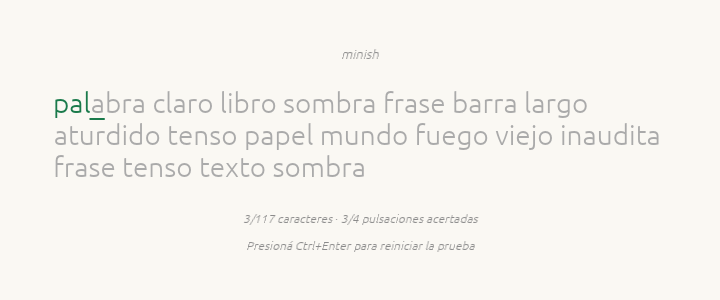
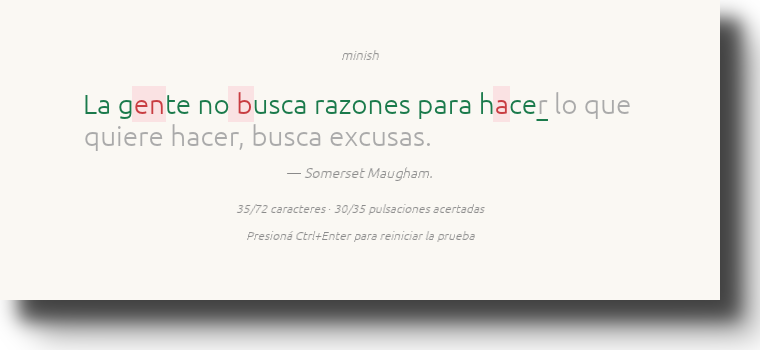
docs: add README and refresh the screenshot
The README covers how to run the app, the controls, how each metric is
computed, the quote file format with its 130-character budget, and the
compositor rule niri needs to pin the window to a corner.

The screenshot was retaken with the author line visible, which the
previous one predates.

diff --git a/README.md b/README.md
@@ -1,0 +1,108 @@
+# minish
+
+[![Built with Gentle-AI](https://raw.githubusercontent.com/Gentleman-Programming/gentle-ai/main/docs/assets/brand/built-with-gentle-ai.png)](https://github.com/Gentleman-Programming/gentle-ai)
+
+<p align="center">
+  <img src="assets/minish.png" width="140" alt="minish">
+</p>
+
+Entrenador de mecanografía minimalista: una frase real por vez, nada más.
+
+Practicás con citas reales en español —con sus acentos, comas, mayúsculas y
+signos de apertura— en una ventana chica que se queda arriba de todo. Al
+terminar te muestra palabras por minuto, precisión y ritmo.
+
+![minish corriendo en niri](doc/captura.png)
+
+## Cómo correrlo
+
+Necesitás Rust 1.85 o superior (el proyecto usa la edición 2024). La única
+dependencia es `eframe`, que baja `cargo` solo.
+
+```sh
+cargo run --release
+```
+
+El primer build compila `eframe` y compañía, así que tarda unos minutos. Los
+siguientes son instantáneos.
+
+## Controles
+
+| Tecla | Qué hace |
+| --- | --- |
+| Cualquier tecla | Escribe el carácter siguiente |
+| `Backspace` | Borra el último carácter |
+| `Ctrl+Enter` | Reinicia con una frase nueva |
+
+El cronómetro arranca con la **primera tecla**, no al abrir la ventana: pensar
+la frase no cuenta.
+
+## Qué mide
+
+- **WPM** — caracteres correctos dividido 5, por minuto. La convención de "una
+  palabra son 5 caracteres" es la que usan casi todos los tests de tipeo.
+- **Precisión** — pulsaciones acertadas sobre el total. Un error que corregís
+  con `Backspace` **sigue contando**: es lo que hace un test de tipeo real.
+- **Ritmo** — milisegundos promedio por pulsación.
+
+La sesión termina al llegar al último carácter de la frase, aciertes o no. Por
+eso la última letra no se puede corregir, igual que en monkeytype.
+
+## Las frases
+
+Están en `resources/frases.txt`, una por línea, con el autor separado por un
+**tabulador**:
+
+```text
+Si crees que C++ es difícil, intenta aprender inglés.<TAB>Bjarne Stroustrup
+```
+
+El archivo se embebe en el binario con `include_str!`, así que la app no depende
+del directorio desde donde la ejecutes — pero **sin el archivo no compila**. Si
+lo editás, volvé a compilar.
+
+Dos detalles del formato:
+
+- El autor es **opcional**: una línea sin tabulador es una frase sin autor (el
+  archivo tiene un par así).
+- El autor es **informativo**: se muestra en gris debajo de la frase y no se
+  tipea. La práctica es solo el texto.
+
+Entran las frases de hasta 130 caracteres. Con la ventana de 720×300 y la fuente
+de 28 px entran tres líneas, y ese presupuesto es el que fija el límite en
+`phrases::MAX_CHARS`; las más largas se descartan al cargar (hoy son 63 de 630).
+Si agregás una frase que no entra en la ventana, el test de layout te lo dice.
+
+## Ventana flotante
+
+La ventana es de tamaño fijo (720×300), queda siempre arriba y pide la esquina
+superior derecha. En niri se abre flotante sola; fijarle la posición exacta
+requiere una regla del compositor, porque Wayland no deja que un cliente se
+ubique a sí mismo. Está explicado en [`doc/niri.md`](doc/niri.md).
+
+## Estructura
+
+| Módulo | Responsabilidad |
+| --- | --- |
+| `src/main.rs` | Arranque y opciones de la ventana |
+| `src/app.rs` | Capa de egui: dibuja y traduce eventos a pulsaciones |
+| `src/session.rs` | Qué se tipeó y en qué estado está la prueba |
+| `src/stats.rs` | Fórmulas de WPM, precisión y ritmo (puro, sin egui) |
+| `src/phrases.rs` | Frases embebidas, parseo y elección al azar |
+| `src/theme.rs` | Paleta y tipografía |
+
+La regla que ordena el diseño: `stats` y `session` no saben que existe una
+ventana. Por eso las métricas se testean sin abrir una, y los tests pueden
+simular sesenta segundos en cero tiempo real.
+
+## Desarrollo
+
+```sh
+cargo test                              # 28 tests
+cargo clippy --all-targets -- -D warnings
+cargo fmt --check
+```
+
+Los tests de layout corren un frame real de egui sin GPU (`ctx.run_pass`) y
+miden **todas** las frases del archivo: una frase nueva que no entre rompe los
+tests en vez de romper la ventana.
